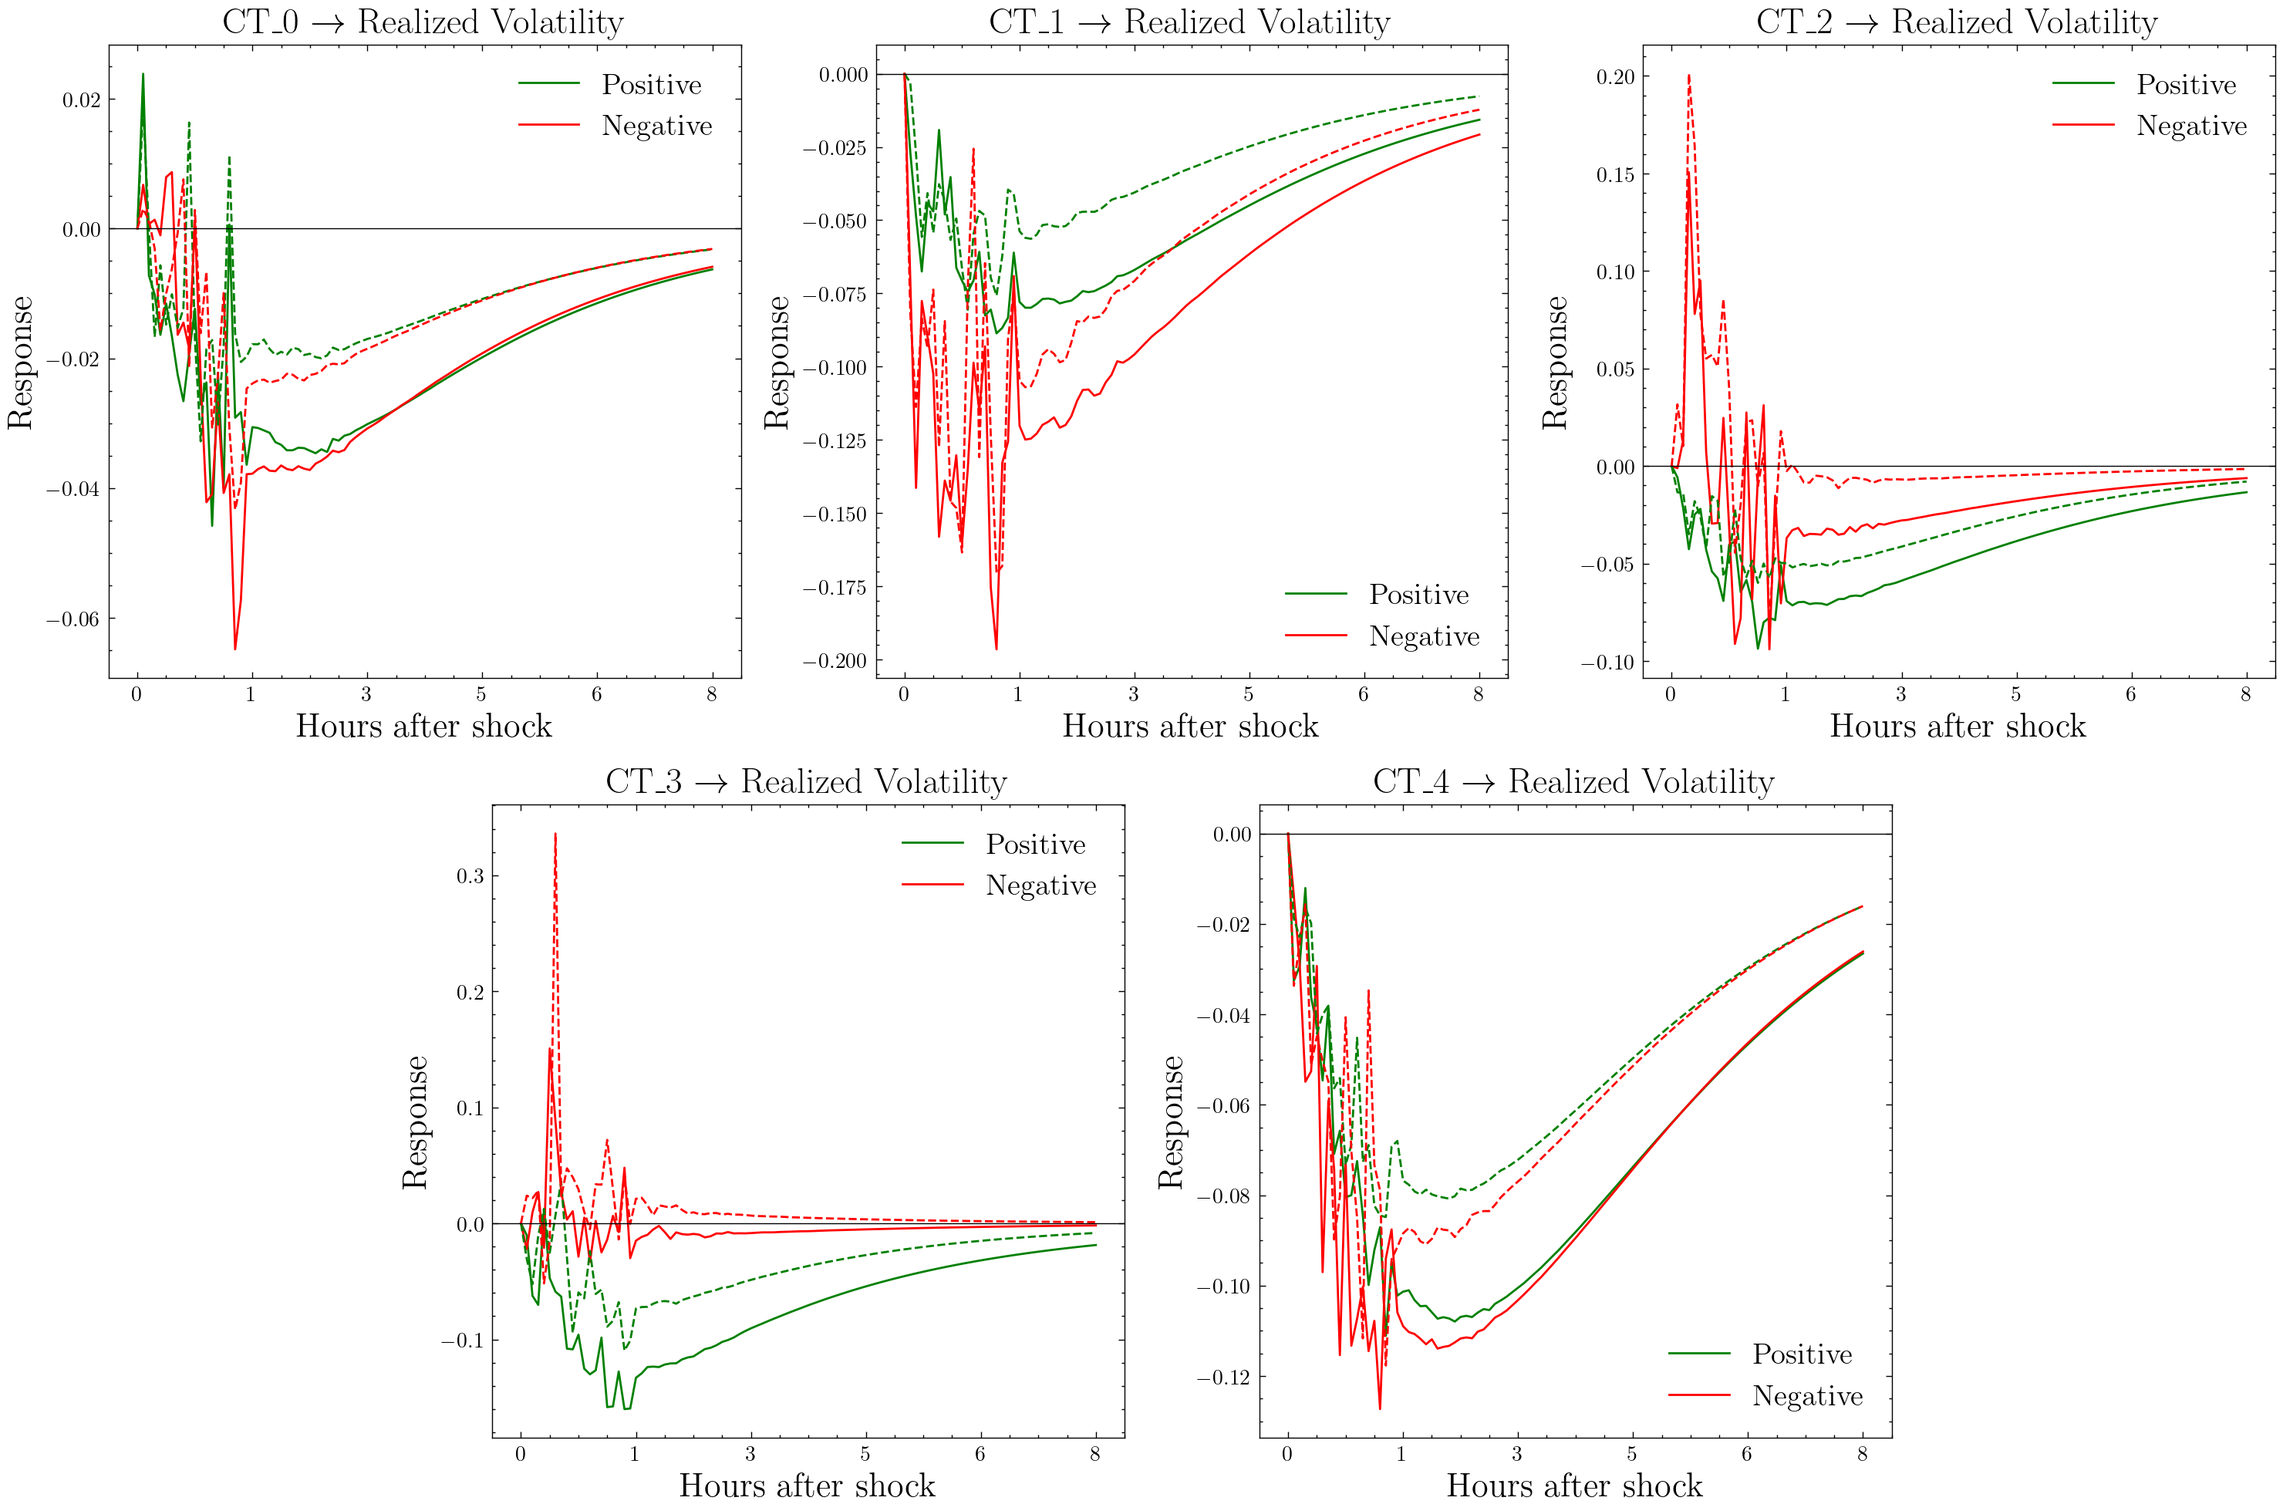
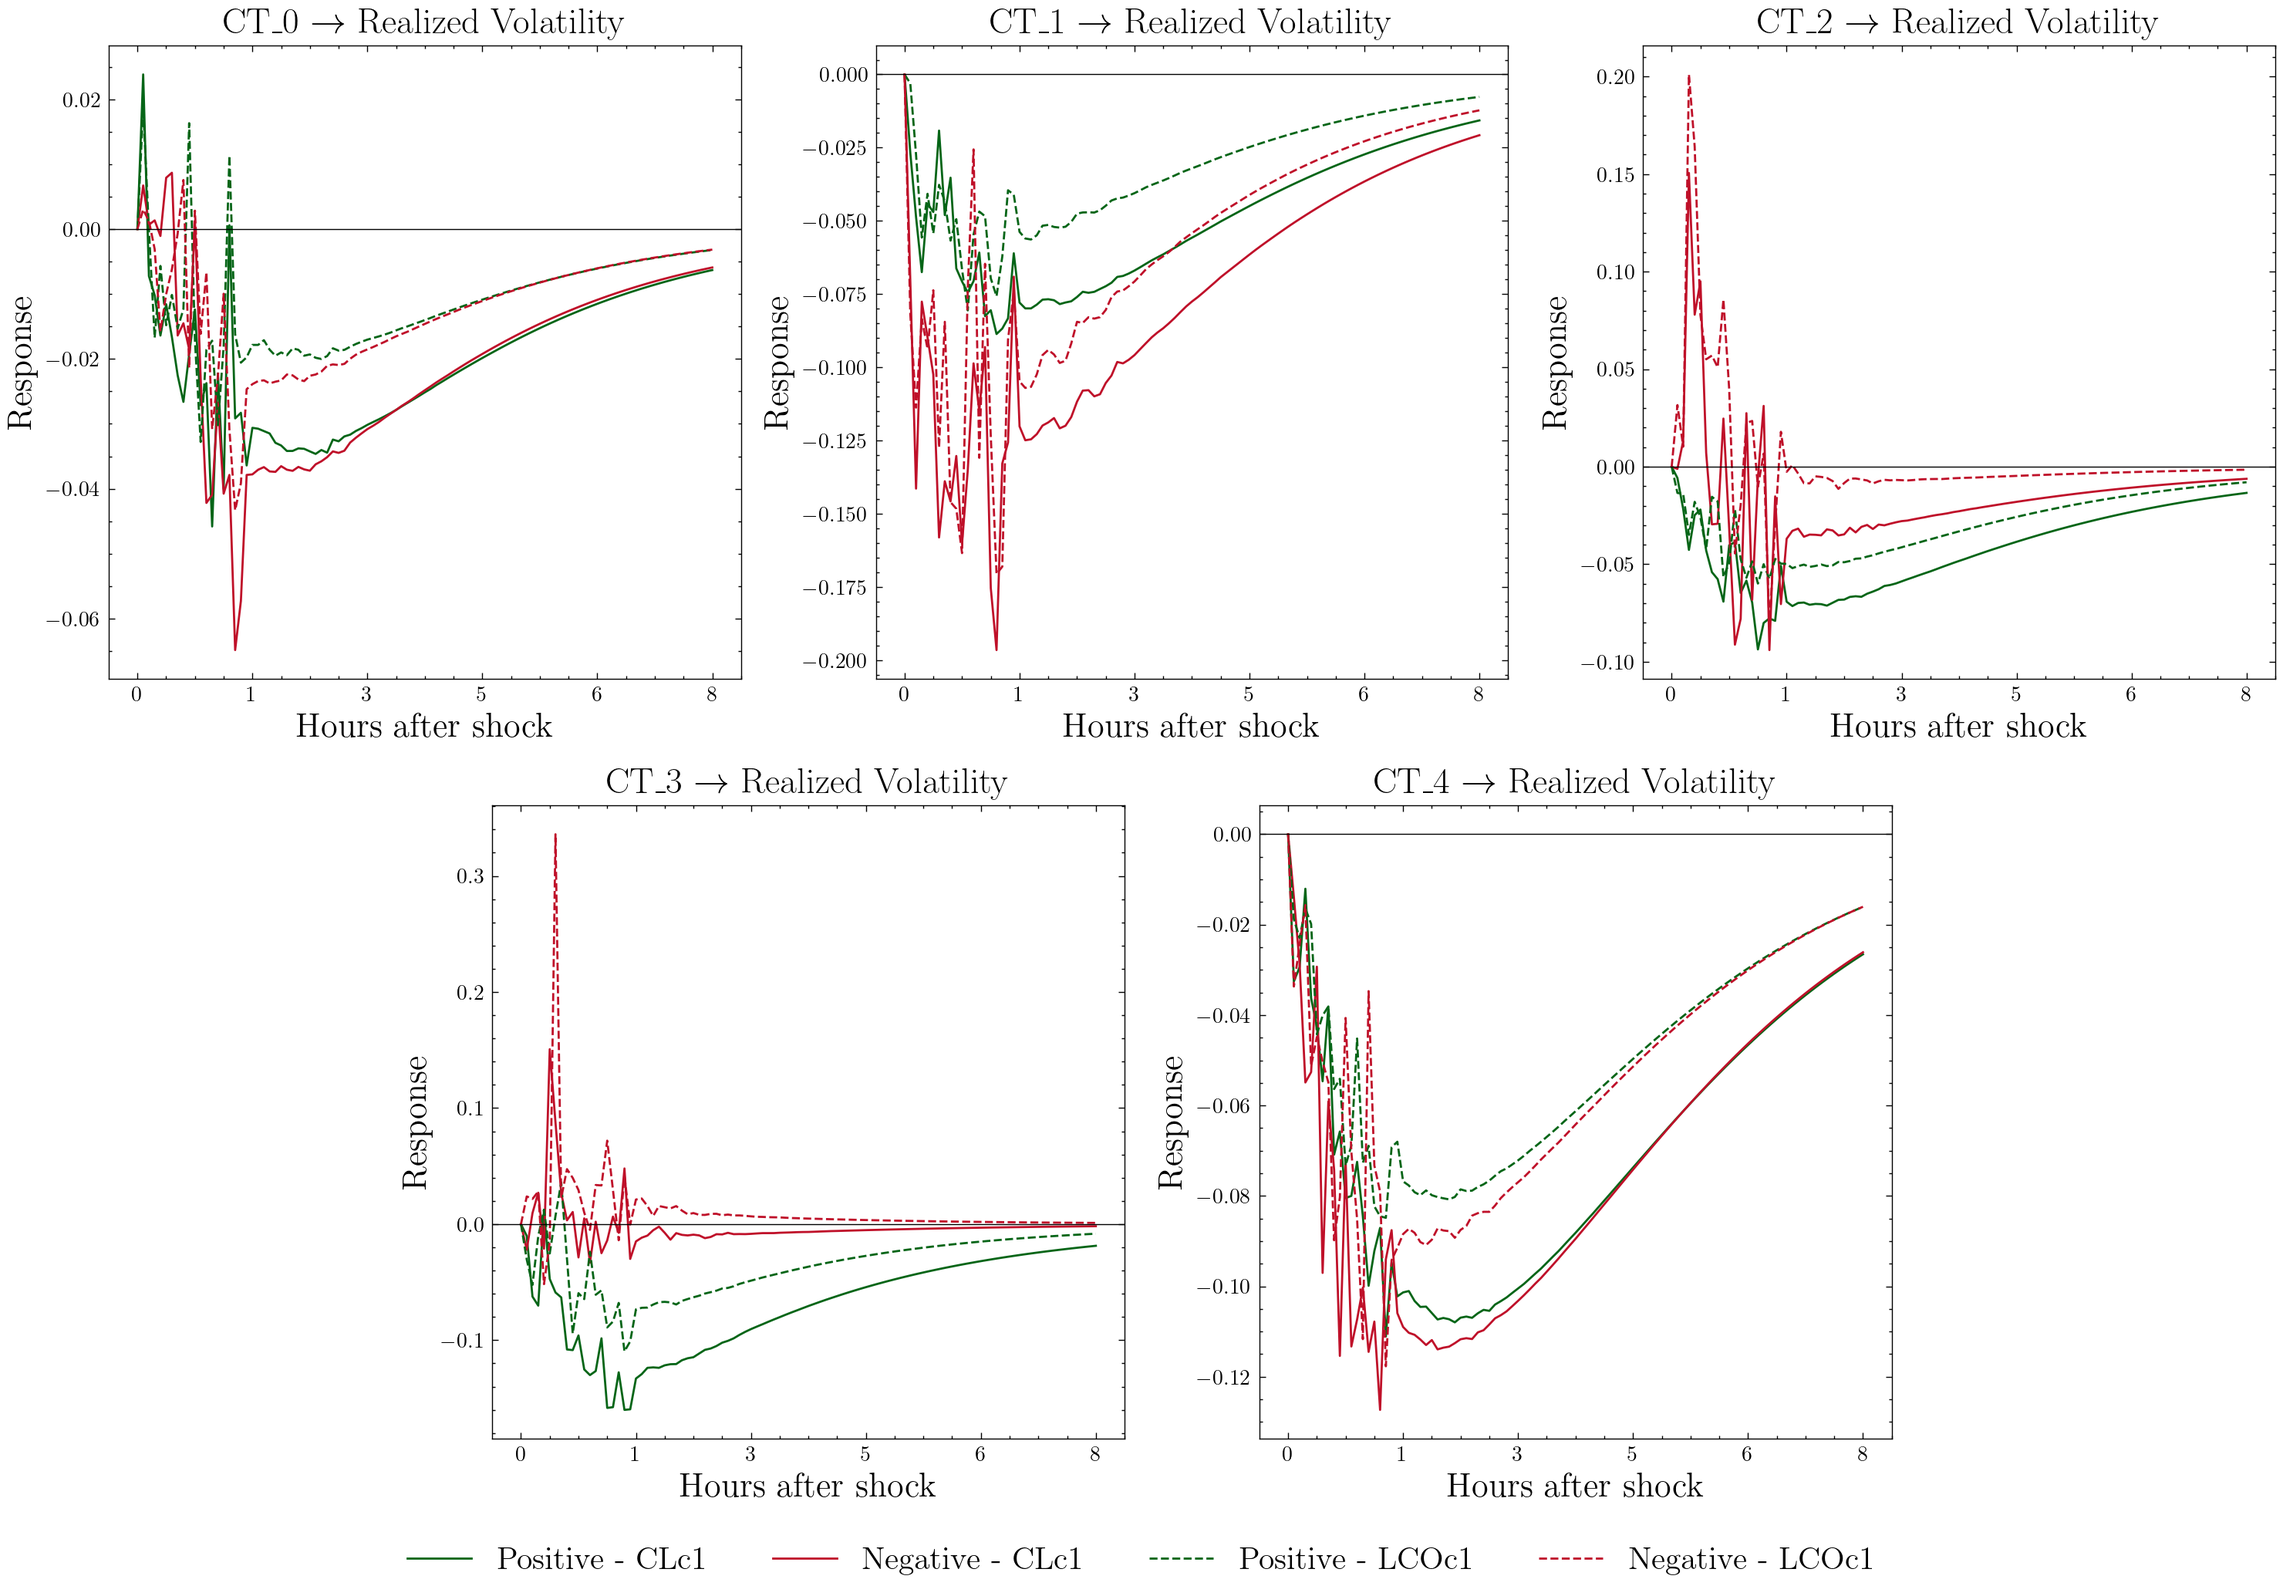
update VAR irf plots

diff --git a/src_HF/utils/var_utils.py b/src_HF/utils/var_utils.py
@@ -109,7 +109,7 @@ class SentVAR:
 
         linestyles = {'CLc1': '-', 'LCOc1': '--'}
 
-        colors = ['Green', 'Red', 'gray']
+        colors = ['#056517', '#bf1029']
         labels = ['Positive', 'Negative']
 
         for key, model_info in self.model_dict.items():
@@ -120,7 +120,7 @@ class SentVAR:
                     plot_ax.lines[0].get_xdata(),
                     plot_ax.lines[0].get_ydata(),
                     color=colors[i],
-                    label=labels[i] if key == 'CLc1' else None,
+                    label=f'{labels[i]} - {key}',
                     linestyle=linestyles[key],
                 )
 
@@ -128,7 +128,6 @@ class SentVAR:
         ax.axhline(0, color='black', lw=0.5)
         ax.set_xlabel('Hours after shock', fontsize=16)
         ax.set_ylabel('Response', fontsize=16)
-        ax.legend(frameon=False, fontsize=14)
         x_ticks = np.arange(0, 101, 20)
         ax.set_xticks(x_ticks)
         ax.set_xticklabels((x_ticks * 5 / 60).astype(int))
